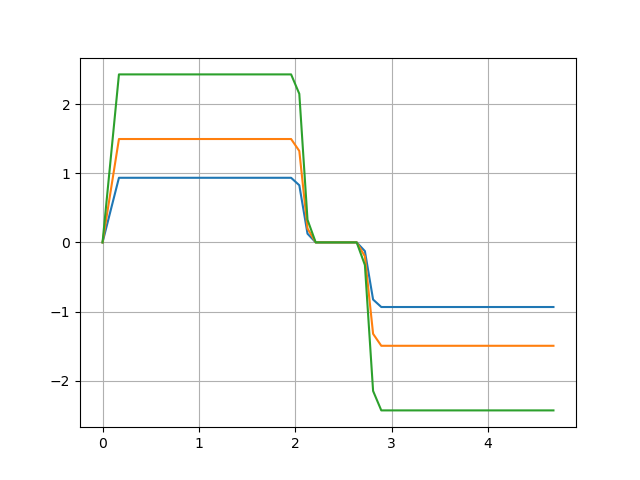
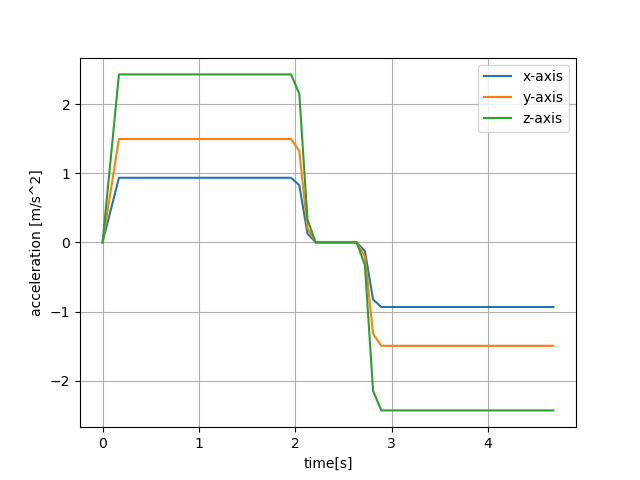
Improving plotting

Changed region(s): [[0.75, 0.125, 0.9062, 0.2812], [0.0312, 0.3438, 0.0625, 0.6562], [0.4688, 0.9375, 0.5625, 1.0]]

diff --git a/auv/auv.py b/auv/auv.py
@@ -98,8 +98,9 @@ class AutonomousUnderwaterVehicle:
 
         plt.xlabel('x [m]')
         plt.ylabel('y [m]')
+        ax.set_zlabel('z [m]')
 
-        plt.title('Position in R3')
+        plt.title('3D trajectory over time')
 
         for index in range(len(time)):
             ax.plot3D([trajectory[0, 0], trajectory[0, index]], [trajectory[1, 0], trajectory[1, index]],
@@ -118,11 +119,16 @@ class AutonomousUnderwaterVehicle:
         """
 
         plt.figure()
-        plt.plot(time, trajectory[0], ':.')
-        plt.plot(time, trajectory[1], ':.')
-        plt.plot(time, trajectory[2], ':.')
+        plt.xlabel('time[s]')
+        plt.ylabel('displacement [m]')
+
+        plot_x, = plt.plot(time, trajectory[0], ':.', label='x-axis')
+        plot_y, = plt.plot(time, trajectory[1], ':.', label='y-axis')
+        plot_z, = plt.plot(time, trajectory[2], ':.', label='z-axis')
         plt.grid(True)
+        plt.legend(handles=[plot_x, plot_y, plot_z])
         plt.savefig('../results/auv/positions.png')
+        plt.show()
 
     @staticmethod
     def plot_velocity_profiles(trajectory, time):
@@ -138,16 +144,26 @@ class AutonomousUnderwaterVehicle:
         v = np.sqrt(vx ** 2 + vy ** 2 + vz ** 2)
 
         plt.figure()
-        plt.plot(time, vx)
-        plt.plot(time, vy)
-        plt.plot(time, vz)
+        plt.xlabel('time[s]')
+        plt.ylabel('velocity [m/s]')
+
+        plot_x, = plt.plot(time, vx, label='x-axis')
+        plot_y, = plt.plot(time, vy, label='y-axis')
+        plot_z, = plt.plot(time, vz, label='z-axis')
         plt.grid(True)
+        plt.legend(handles=[plot_x, plot_y, plot_z])
         plt.savefig('../results/auv/velocities.png')
+        plt.show()
 
         plt.figure()
-        plt.plot(time, v)
+        plt.xlabel('time[s]')
+        plt.ylabel('velocity [m/s]')
+
+        plot_norm, = plt.plot(time, v, label="vector norm")
         plt.grid(True)
+        plt.legend(handles=[plot_norm])
         plt.savefig('../results/auv/velocity_norm.png')
+        plt.show()
 
     @staticmethod
     def plot_acceleration_profiles(trajectory, time):
@@ -163,17 +179,26 @@ class AutonomousUnderwaterVehicle:
         a = np.sqrt(ax ** 2 + ay ** 2 + az ** 2)
 
         plt.figure()
-        plt.plot(time, ax)
-        plt.plot(time, ay)
-        plt.plot(time, az)
+        plt.xlabel('time[s]')
+        plt.ylabel('acceleration [m/s^2]')
 
+        plot_x, = plt.plot(time, ax, label='x-axis')
+        plot_y, = plt.plot(time, ay, label='y-axis')
+        plot_z, = plt.plot(time, az, label='z-axis')
         plt.grid(True)
+        plt.legend(handles=[plot_x, plot_y, plot_z])
         plt.savefig('../results/auv/accelerations.png')
+        plt.show()
 
         plt.figure()
-        plt.plot(time, a)
+        plt.xlabel('time[s]')
+        plt.ylabel('acceleration [m/s^2]')
+
+        plot_norm, = plt.plot(time, a, label="vector norm")
         plt.grid(True)
+        plt.legend(handles=[plot_norm])
         plt.savefig('../results/auv/acceleration_norm.png')
+        plt.show()
 
     @property
     def v_max(self):
